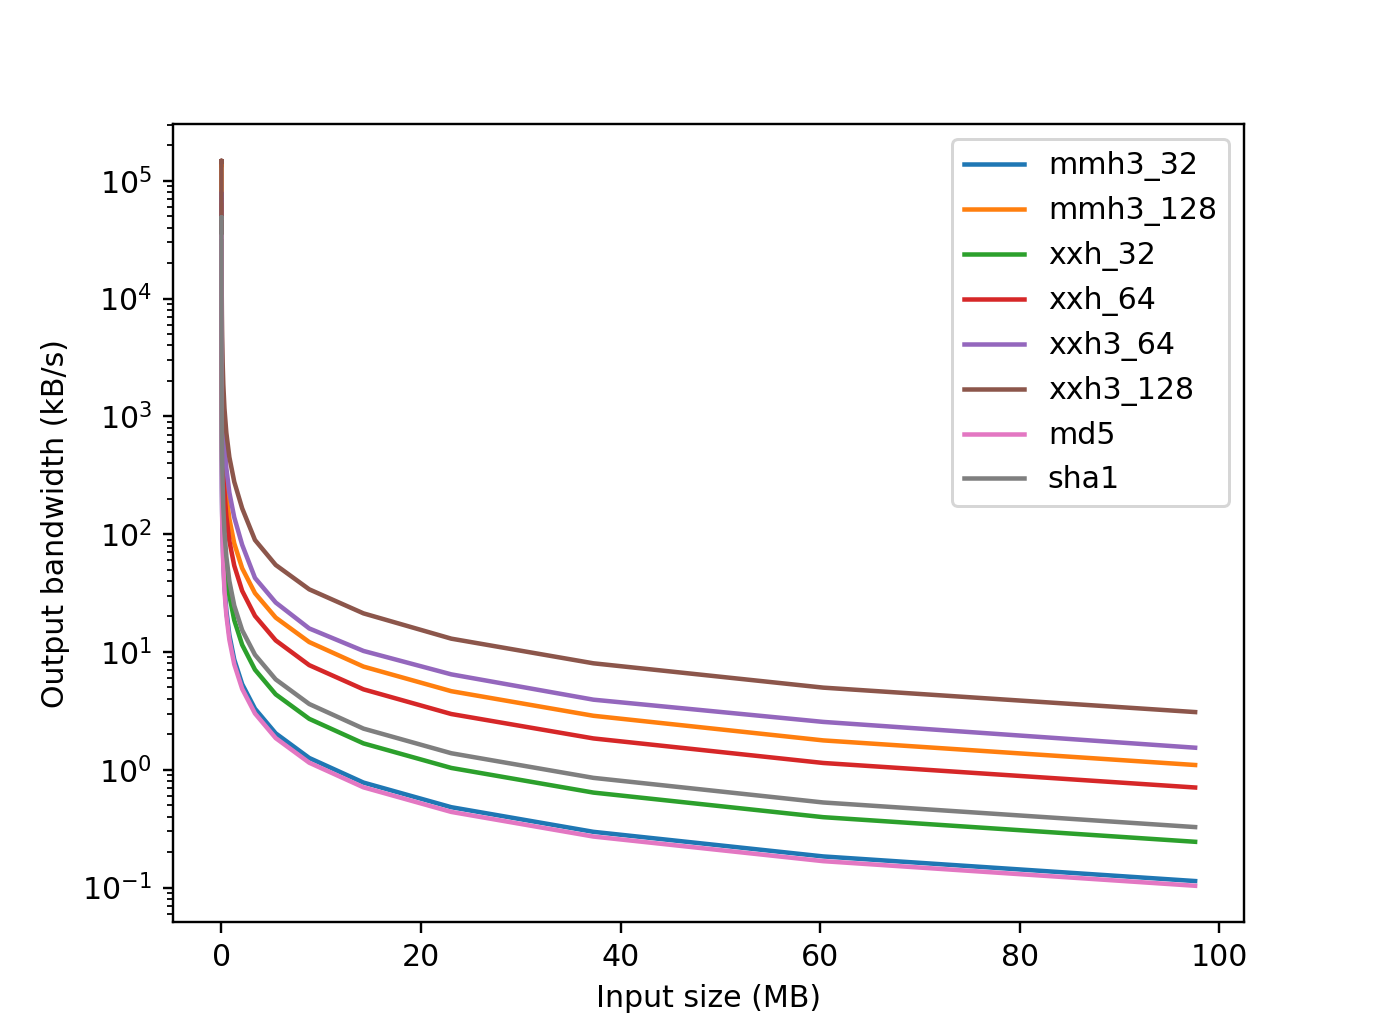
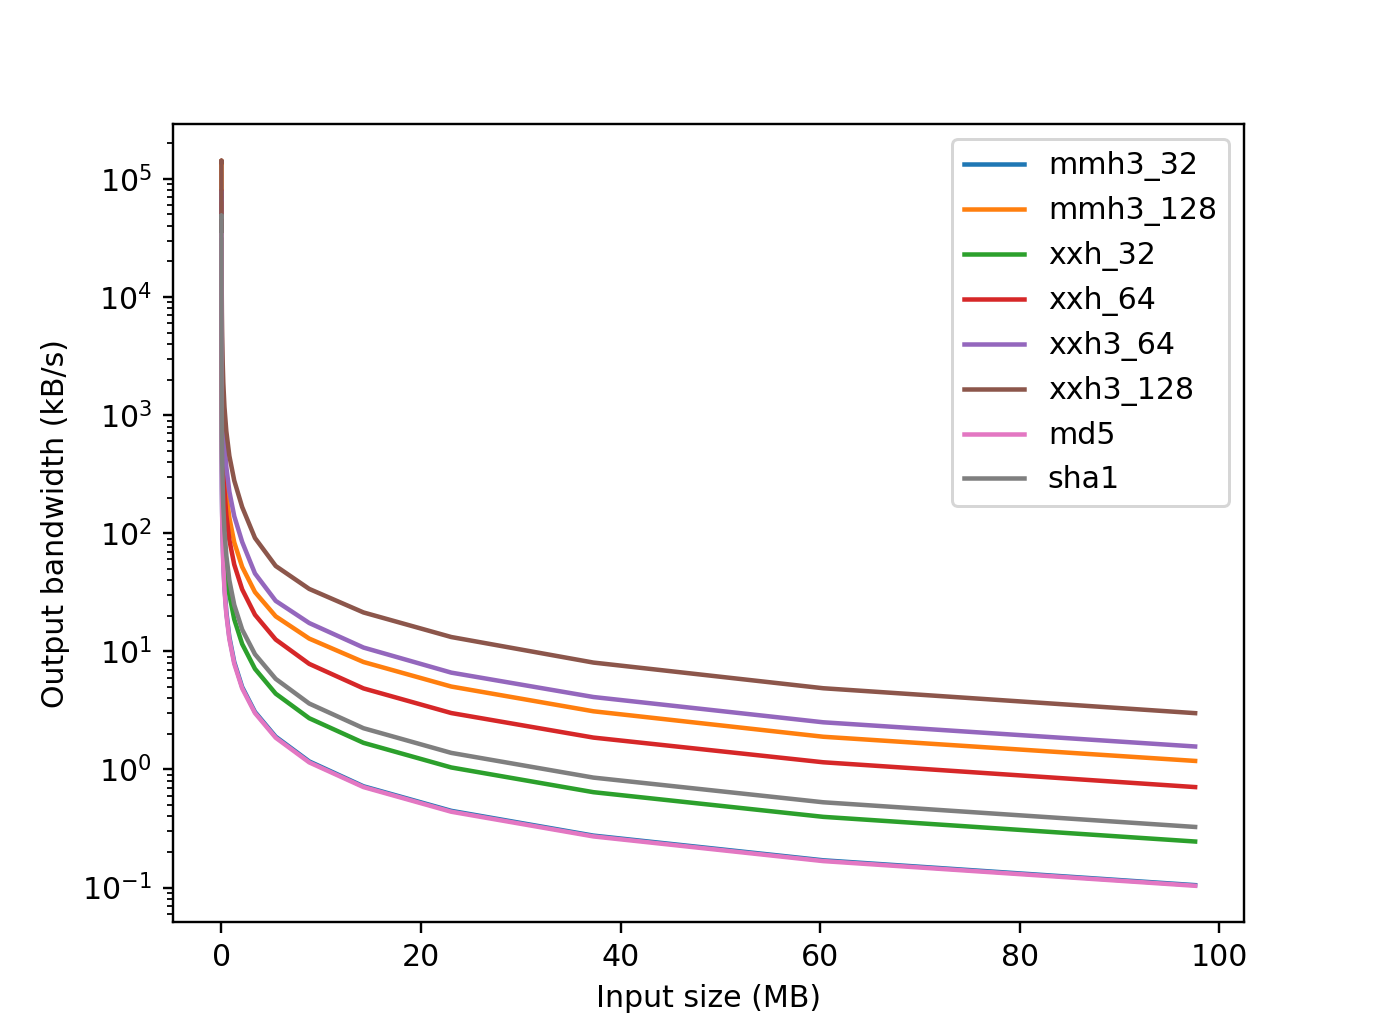
Revise documentation on benchmarking

diff --git a/benchmark/plot_graph.py b/benchmark/plot_graph.py
@@ -72,7 +72,7 @@ if __name__ == "__main__":
     )
     plt.savefig(os.path.join(args.output_dir, BANDWIDTH_FILE_NAME))
 
-    df_bandwidth_small = df_bandwidth.copy()
+    df_bandwidth_small = df_bandwidth / 1024 /1024
     df_bandwidth_small = df_bandwidth_small.drop(columns=["md5", "sha1"])
     df_bandwidth_small = df_bandwidth_small[df_bandwidth_small.index <= 1024]
     df_bandwidth_small.plot(

diff --git a/docs/CONTRIBUTING.md b/docs/CONTRIBUTING.md
@@ -1,25 +1,26 @@
 # Contributing
 
-Thank you for your interest in contributing to the `mmh3` project!
+Thank you for your interest in contributing to the `mmh3` project. We
+appreciate your support and look forward to your contributions.
 
-Read [README](https://github.com/hajimes/mmh3/blob/master/README.md) to get an
+Please read [README](https://github.com/hajimes/mmh3/blob/master/README.md) to get an
 overview of the `mmh3` project, and follow our
 [Code of Conduct](./CODE_OF_CONDUCT) (ACM Code of Ethics and Professional
 Conduct).
 
-## Issues
+## Submitting issues
 
-You can contribute to our project by simply submitting a bug report or a feature
-suggestion through the [issue tracker](https://github.com/hajimes/mmh3/issues).
+We welcome your contributions, whether it's submitting a bug report or
+suggesting a new feature through the
+[issue tracker](https://github.com/hajimes/mmh3/issues).
 
-Before submitting a new issue, it's a good idea to check
-[Known Issues section on README](https://github.com/hajimes/mmh3#known-issues).
+Before creating a new issue, please check the
+[Known Issues section in README](https://github.com/hajimes/mmh3#known-issues)
+to see if the problem has already been noted.
 
-## Maintaining and developing the project
+## Project structure
 
-### Project structure
-
-As of 4.1.0, the layout of the project is as follows:
+As of version 4.2.0, the project layout is structured as follows:
 
 - `src/mmh3`
   - `mmh3module.c`: the main file that serves as the interface between Python
@@ -36,14 +37,26 @@ As of 4.1.0, the layout of the project is as follows:
   - `refresh.py`: file that generates `src/mmh3/murmurhash.c` and
     `src/mmh3/murmurhash.h` from the original MurmurHash3 C++ code. Edit this
     file to modify the contents of these files.
+- `benchmark`
+  - `benchmark.py`: script to run benchmarks.
+  - `plot_graph.py`: script to plot benchmark results.
+- `docs`: project documentation directory
+- `.github/workflows`: GitHub Actions workflows
 
-### Testing
+## Testing
 
 Before submitting your changes, make sure to run the project's tests to ensure
-that everything is working as expected. At least you should run `pytest` and
-`mypy --strict tests` from the project root directory.
+that everything is working as expected.
 
-#### (Optional) Testing on s390x
+Try
+
+```bash
+$ pip install ".[test]"
+$ pytest
+$ mypy --strict tests
+```
+
+### (Optional) Testing on s390x
 
 When you have modified the code in a way which may cause endian issues, you may
 want to locally test on s390x, the only big-endian platform officially supported
@@ -53,7 +66,7 @@ by Python.
 by Simon Willison is a good introduction to Docker/QEMU settings for emulating
 s390x.
 
-### Pull request
+## Pull request
 
 Once you've pushed your changes to your fork, you can
 [create a pull request (PR)](https://github.com/hajimes/mmh3/pulls) on the main
@@ -73,23 +86,81 @@ The idea of the subproject directory loosely follows the
 ### Updating mmh3 C code
 
 Try `git submodule update --init` to fetch Appleby's original SMHasher project
-as a git submodule. Then, run the `refresh.py` script to generate PEP
+as a git submodule. Then, run `python util/refresh.py` to generate PEP
 7-compliant C code from the original project, instead of editing `murmurhash3.*`
 files manually.
 
-Add transformation code to the `refresh.py` script to perform
-further edits. Then, run `refresh.py` again to update the `murmurhash3.*` files.
+To perform further edits, add transformation code to the `refresh.py` script.
+Then, run `refresh.py` again to update the `murmurhash3.*` files.
 
 After file generation, use `clang-format` to format the generated code. Try
 `clang-format -i src/mmh3/*.{c,h}` from the project's top-level directory.
 
 ### Local files
 
-1. `./README.md`
-1. `./refresh.py`
-1. `./FILE_HEADER`
+1. `./util/README.md`
+1. `./util/refresh.py`
+1. `./util/FILE_HEADER`
 
 ### Generated files
 
-1. `../src/mmh3/murmurhash3.c`
-1. `../src/mmh3/murmurhash3.h`
+1. `./src/mmh3/murmurhash3.c`
+1. `./src/mmh3/murmurhash3.h`
+
+## Benchmarking
+
+To run benchmarks locally, try the following command:
+
+```bash
+$ pip install ".[benchmark]"
+$ python benchmark/benchmark.py -o OUTPUT_FILE \
+            --test-hash HASH_NAME --test-buffer-size-max HASH_SIZE
+```
+
+where `OUTPUT_FILE` is the output file name (json formatted), `HASH_NAME` is
+the name of the hash, and `HASH_SIZE` is the maximum buffer size to be tested
+in bytes.
+
+For example,
+
+```bash
+$ pip install ".[benchmark]"
+$ mkdir results
+$ python benchmark/benchmark.py -o results/mmh3_128.json \
+            --test-hash mmh3_128 --test-buffer-size-max 134217728
+```
+
+As of version 4.2.0, the following hash functions are available for
+benchmarking: mmh3_32, mmh3_128, xxh_32, xxh_64, xxh3_64, xxh3_128, pymmh3_32,
+pymmh3_128, md5, and sha1.
+
+The owner of the repository can run the benchmark on GitHub Actions by using
+the workflow defined in `.github/workflows/benchmark.yml`.
+
+After obtaining the benchmark results, you can plot graphs by `plot_graph.py`.
+The following is an example of how to run the script:
+
+```bash
+$ pip install ".[benchmark]" ".[plot]"
+$ python benchmark/plot_graph.py --output-dir docs/_static RESULT_DIR/*.json
+```
+
+where `RESULT_DIR` is the directory containing the benchmark results.
+
+As for the result of benchmarks themselves, see [Benchmarks](./benchmarks.md).
+
+## Documentation
+
+Project documentation files are mainly written in the Markdown format and are
+located in the `docs`. The documentation is automatically built and
+[hosted on the Read the Docs](https://mmh3.readthedocs.io/en/latest/).
+
+To build the documentation locally, use the following command:
+
+```bash
+$ pip install ".[docs]"
+$ make -C docs html
+```
+
+To check the result of the built documentation, open
+`docs/_build/html/index.html` in your browser.

diff --git a/README.md b/README.md
@@ -38,7 +38,7 @@ pip install mmh3
 
 ### Basic usage
 
-```shell
+```pycon
 >>> import mmh3
 >>> mmh3.hash("foo") # returns a 32-bit signed int
 -156908512
@@ -50,7 +50,7 @@ pip install mmh3
 
 Other functions:
 
-```shell
+```pycon
 >>> mmh3.hash64("foo") # two 64-bit signed ints using the 128-bit algorithm
 (-2129773440516405919, 9128664383759220103)
 >>> mmh3.hash64("foo", signed=False) # two 64-bit unsigned ints
@@ -73,7 +73,7 @@ of MurmurHash3 as its backend.
 `hash_from_buffer` hashes byte-likes without memory copying. The method is
 suitable when you hash a large memory-view such as `numpy.ndarray`.
 
-```shell
+```pycon
 >>> mmh3.hash_from_buffer(numpy.random.rand(100))
 -2137204694
 >>> mmh3.hash_from_buffer(numpy.random.rand(100), signed=False)
@@ -84,7 +84,7 @@ suitable when you hash a large memory-view such as `numpy.ndarray`.
 optimization (keyword arg: `x64arch`). Use True for x64 and False for x86
 (default: True):
 
-```shell
+```pycon
 >>> mmh3.hash64("foo", 42, True)
 (-840311307571801102, -6739155424061121879)
 ```
@@ -105,7 +105,7 @@ Please note that as of version 4.1.0, the implementation is still experimental,
 and performance may be unsatisfactory (particularly `mmh3_x86_128()`).
 Additionally, `hexdigest()` is not supported; use `digest().hex()` instead.
 
-```shell
+```pycon
 >>> import mmh3
 >>> hasher = mmh3.mmh3_x64_128(seed=42)
 >>> hasher.update(b"foo")
@@ -135,6 +135,7 @@ complete changelog.
 
 #### Added
 
+- Slightly improve the performance of the `hash_bytes` function.
 - Add support for Python 3.13.
 - Add Read the Docs documentation (<https://github.com/hajimes/mmh3/issues/54>).
 - (planned: Document benchmark results
@@ -142,7 +143,7 @@ complete changelog.
 
 #### Changed
 
-- Change the format of the changelog to conform to the Keep a Changelog
+- Change the format of CHANGELOG.md to conform to the Keep a Changelog
   standard.
 
 ### [4.1.0] - 2024-01-09
@@ -201,7 +202,7 @@ In version 2.4, the type of a seed was changed from a signed 32-bit integer to
 an unsigned 32-bit integer. However, the resulting values for signed seeds
 remain unchanged from previous versions, as long as they are 32-bit.
 
-```shell
+```pycon
 >>> mmh3.hash("aaaa", -1756908916) # signed representation for 0x9747b28c
 1519878282
 >>> mmh3.hash("aaaa", 2538058380) # unsigned representation for 0x9747b28c
@@ -211,7 +212,7 @@ remain unchanged from previous versions, as long as they are 32-bit.
 Be careful so that these seeds do not exceed 32-bit. Unexpected results may
 happen with invalid values.
 
-```shell
+```pycon
 >>> mmh3.hash("foo", 2 ** 33)
 -156908512
 >>> mmh3.hash("foo", 2 ** 34)

diff --git a/CHANGELOG.md b/CHANGELOG.md
@@ -10,6 +10,7 @@ This project has adhered to
 
 ### Added
 
+- Slightly improve the performance of the `hash_bytes` function.
 - Add support for Python 3.13.
 - Add Read the Docs documentation (<https://github.com/hajimes/mmh3/issues/54>).
 - (planned: Document benchmark results
@@ -17,7 +18,7 @@ This project has adhered to
 
 ### Changed
 
-- Change the format of the changelog to conform to the Keep a Changelog
+- Change the format of CHANGELOG.md to conform to the Keep a Changelog
   standard.
 
 ## [4.1.0] - 2024-01-09
@@ -187,7 +188,7 @@ Thanks!
 Beware that due to this revision, **the result of 32-bit version of 2.1 is NOT
 the same as that of 2.0**. E.g.,:
 
-```shell
+```pycon
 >>> mmh3.hash("foo") # in mmh3 2.0
 -292180858
 >>> mmh3.hash("foo") # in mmh3 2.1
